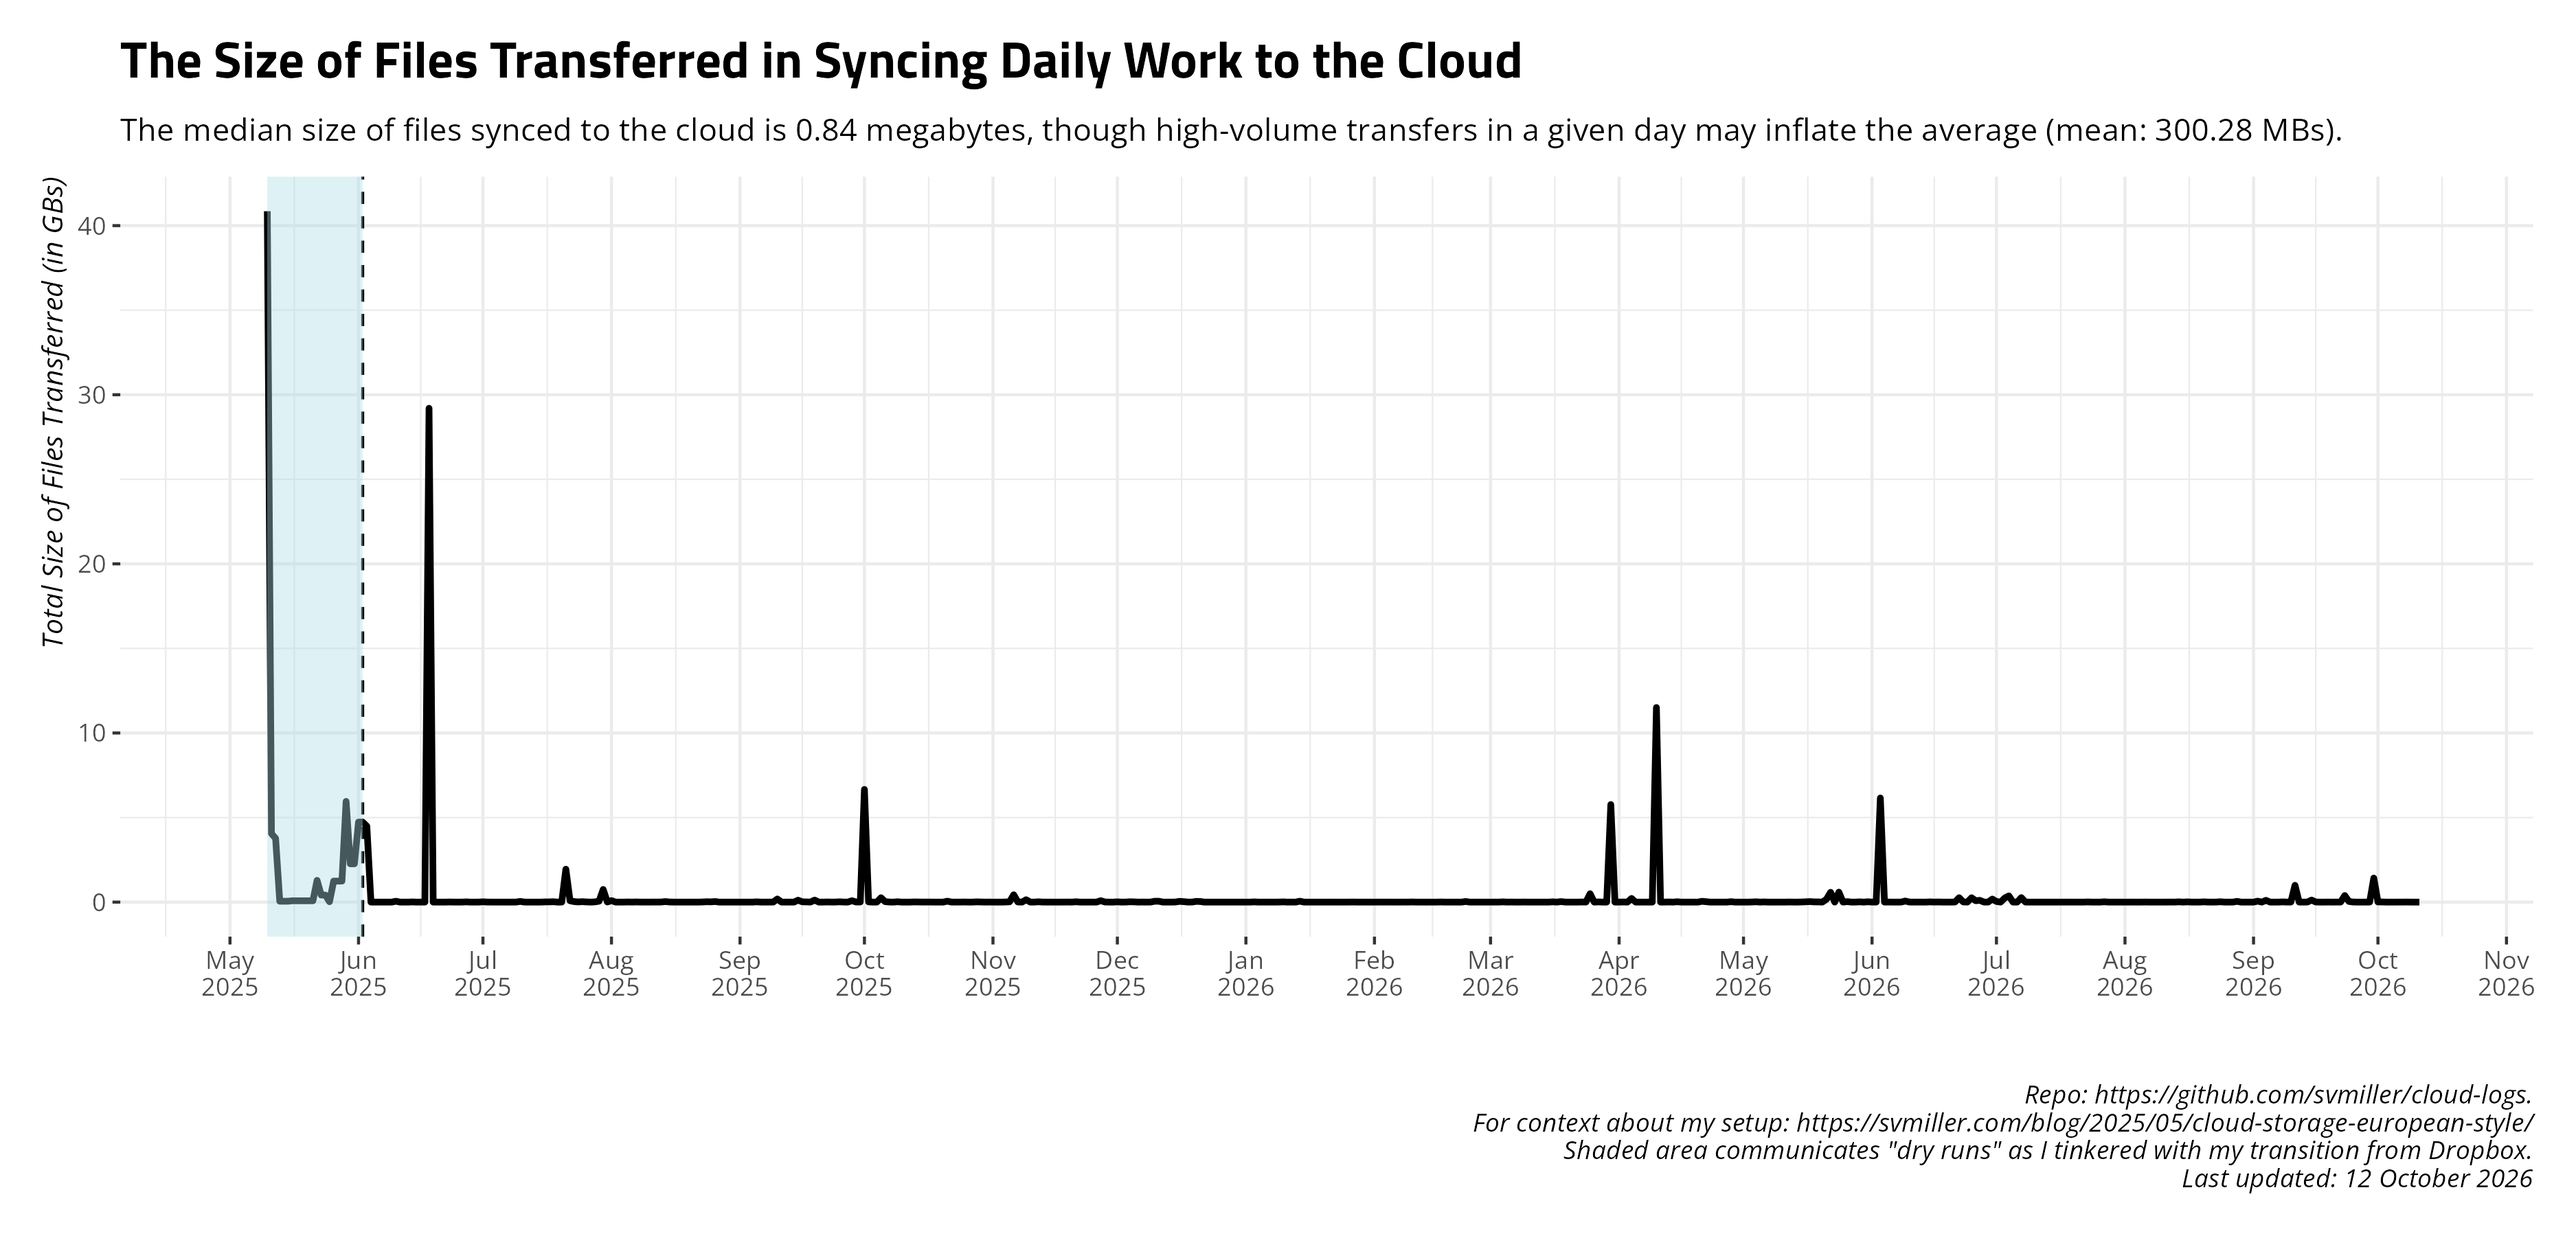
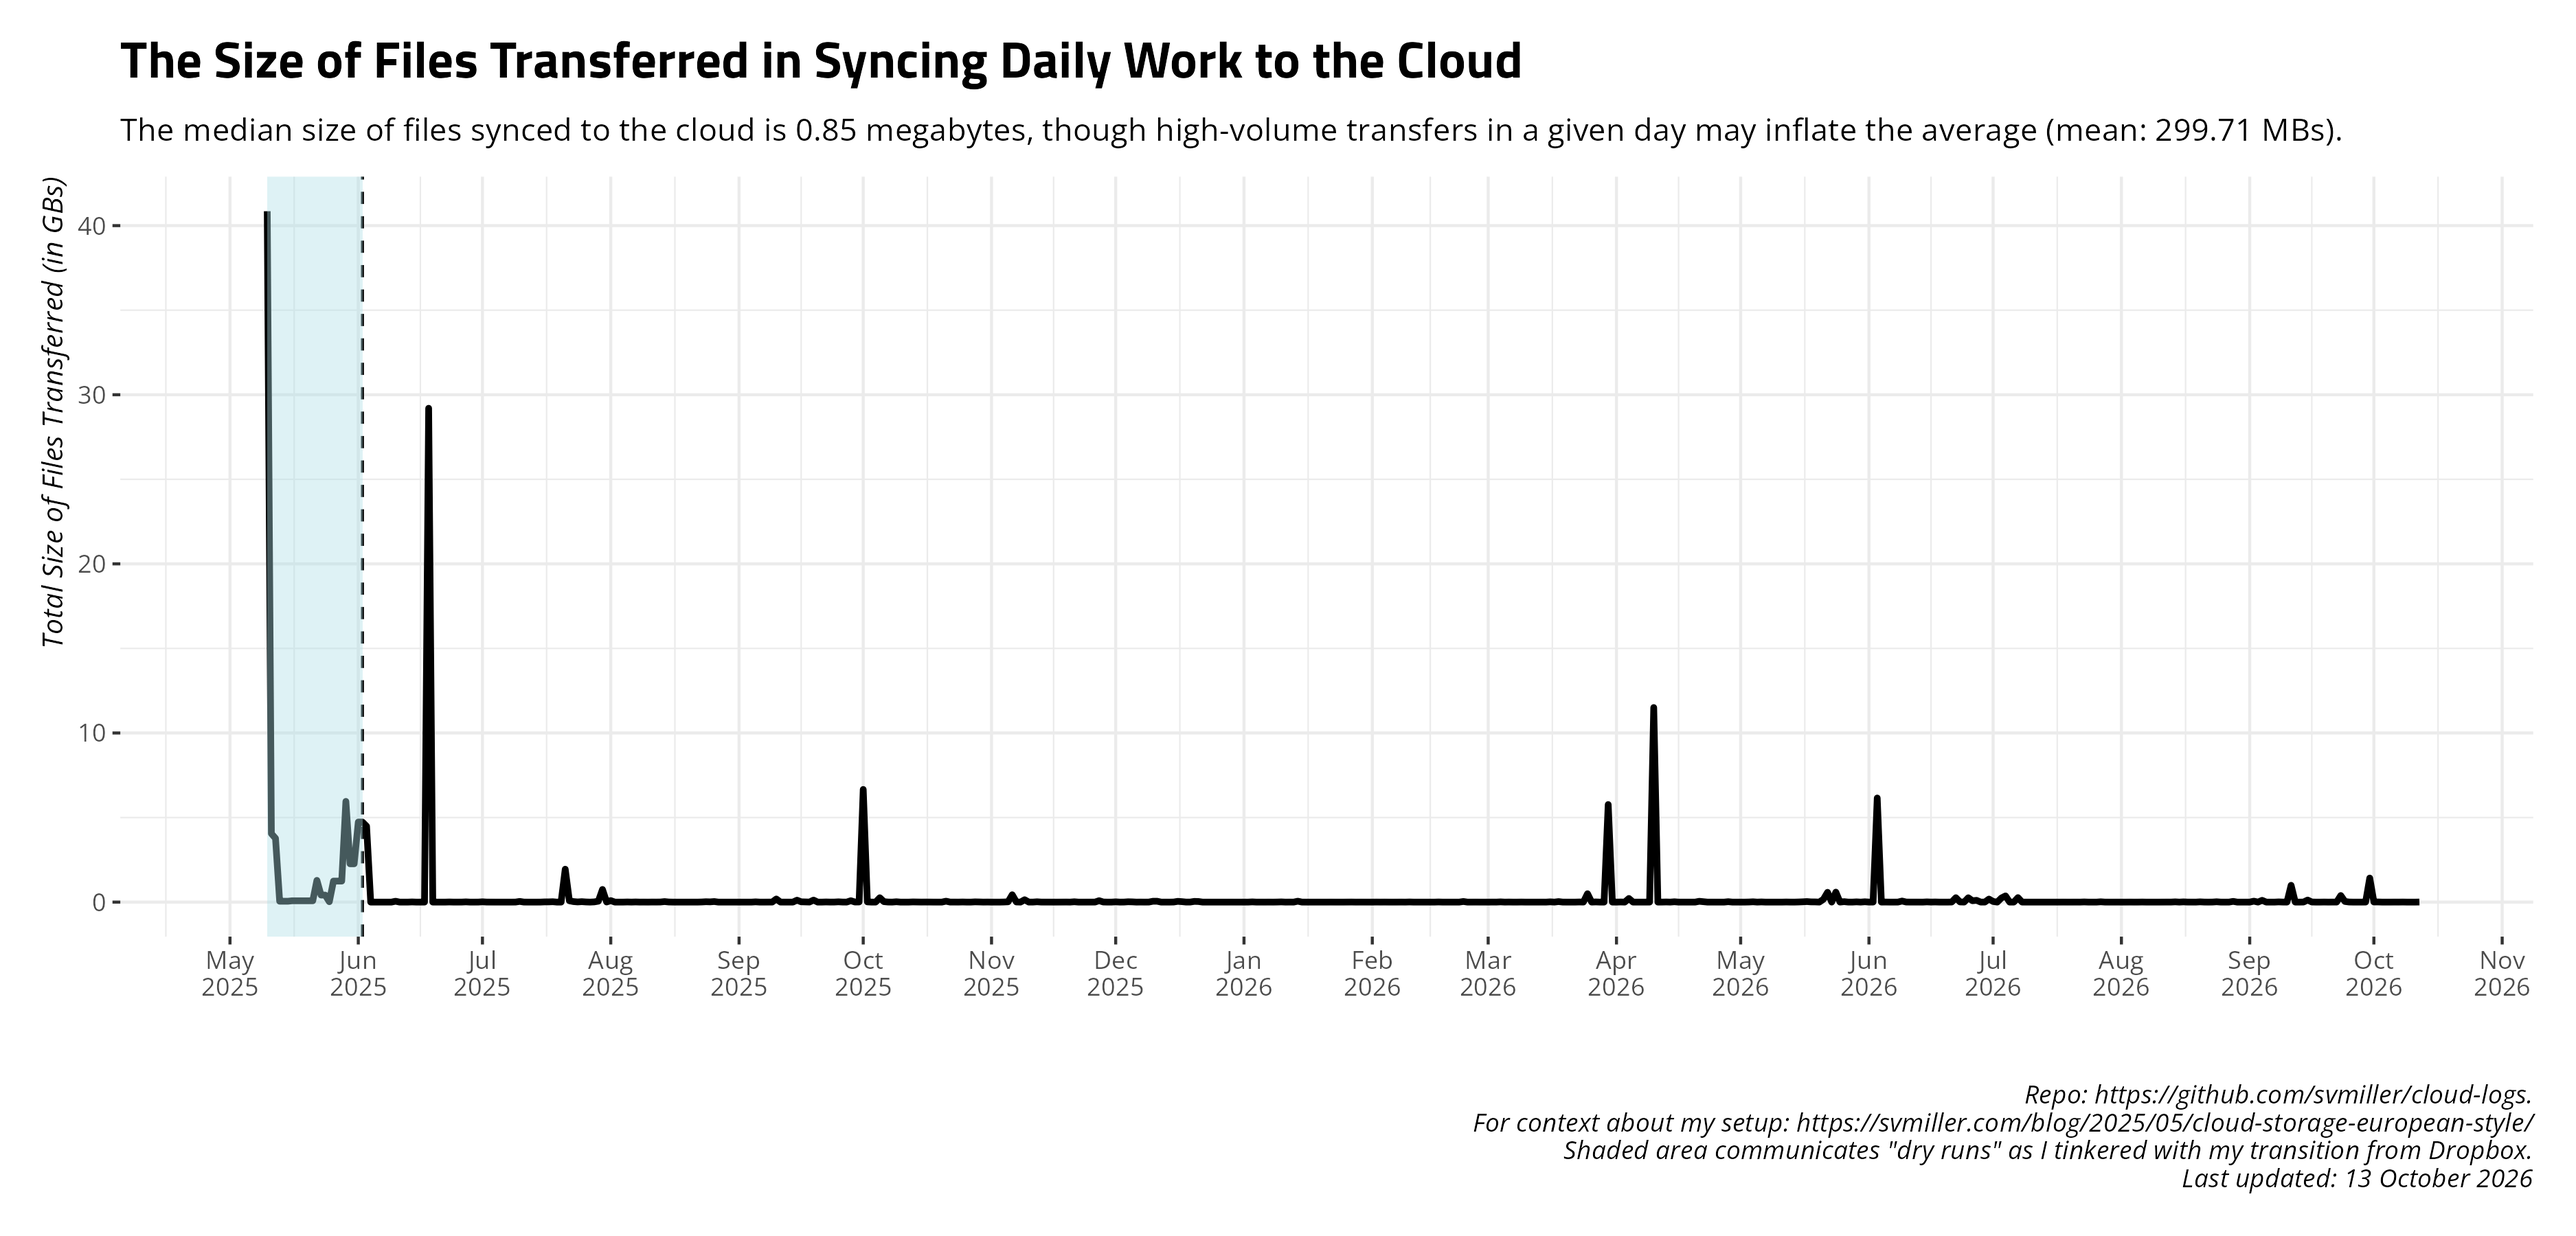
Date: 2026-10-13 09:00:41. Hi mom!

diff --git a/README.md b/README.md
@@ -25,19 +25,19 @@ and uploads to Github.
 ## Summary of Past 14 Days
 
     #> # A tibble: 14 × 4
-    #>    date       ftransfer stransfer   elapsed
-    #>    <date>         <dbl> <chr>       <chr>  
-    #>  1 2026-09-28        22 176.927 KiB 4m52.5s
-    #>  2 2026-09-29        11 2.087 MiB   7m14.5s
-    #>  3 2026-09-30         7 1.422 GiB   5m36.9s
-    #>  4 2026-10-01        34 8.149 MiB   4m45.0s
-    #>  5 2026-10-02        29 8.205 MiB   14m8.7s
-    #>  6 2026-10-03         0 <NA>        4m42.9s
-    #>  7 2026-10-04         0 <NA>        5m49.6s
-    #>  8 2026-10-05        20 250.633 KiB 5m33.2s
-    #>  9 2026-10-06        29 1.902 MiB   4m55.6s
-    #> 10 2026-10-07        20 1.280 MiB   4m34.0s
-    #> 11 2026-10-08         5 4.005 MiB   5m32.5s
-    #> 12 2026-10-09         1 4.059 KiB   4m49.4s
-    #> 13 2026-10-10         0 <NA>        4m23.0s
-    #> 14 2026-10-11         0 <NA>        4m47.3s
+    #>    date       ftransfer stransfer   elapsed 
+    #>    <date>         <dbl> <chr>       <chr>   
+    #>  1 2026-09-29        11 2.087 MiB   7m14.5s 
+    #>  2 2026-09-30         7 1.422 GiB   5m36.9s 
+    #>  3 2026-10-01        34 8.149 MiB   4m45.0s 
+    #>  4 2026-10-02        29 8.205 MiB   14m8.7s 
+    #>  5 2026-10-03         0 <NA>        4m42.9s 
+    #>  6 2026-10-04         0 <NA>        5m49.6s 
+    #>  7 2026-10-05        20 250.633 KiB 5m33.2s 
+    #>  8 2026-10-06        29 1.902 MiB   4m55.6s 
+    #>  9 2026-10-07        20 1.280 MiB   4m34.0s 
+    #> 10 2026-10-08         5 4.005 MiB   5m32.5s 
+    #> 11 2026-10-09         1 4.059 KiB   4m49.4s 
+    #> 12 2026-10-10         0 <NA>        4m23.0s 
+    #> 13 2026-10-11         0 <NA>        4m47.3s 
+    #> 14 2026-10-12       112 4.979 MiB   10m31.4s
